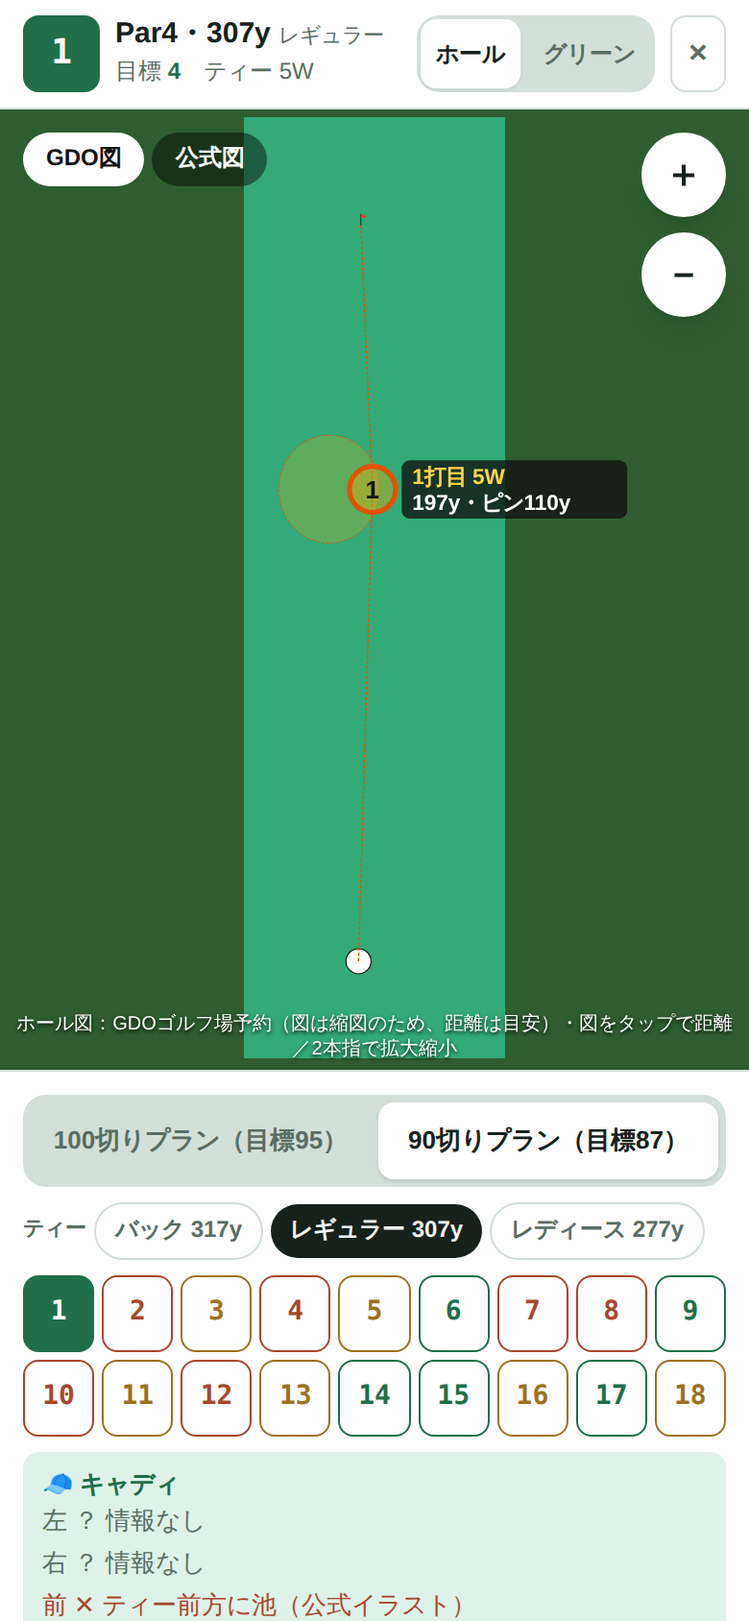
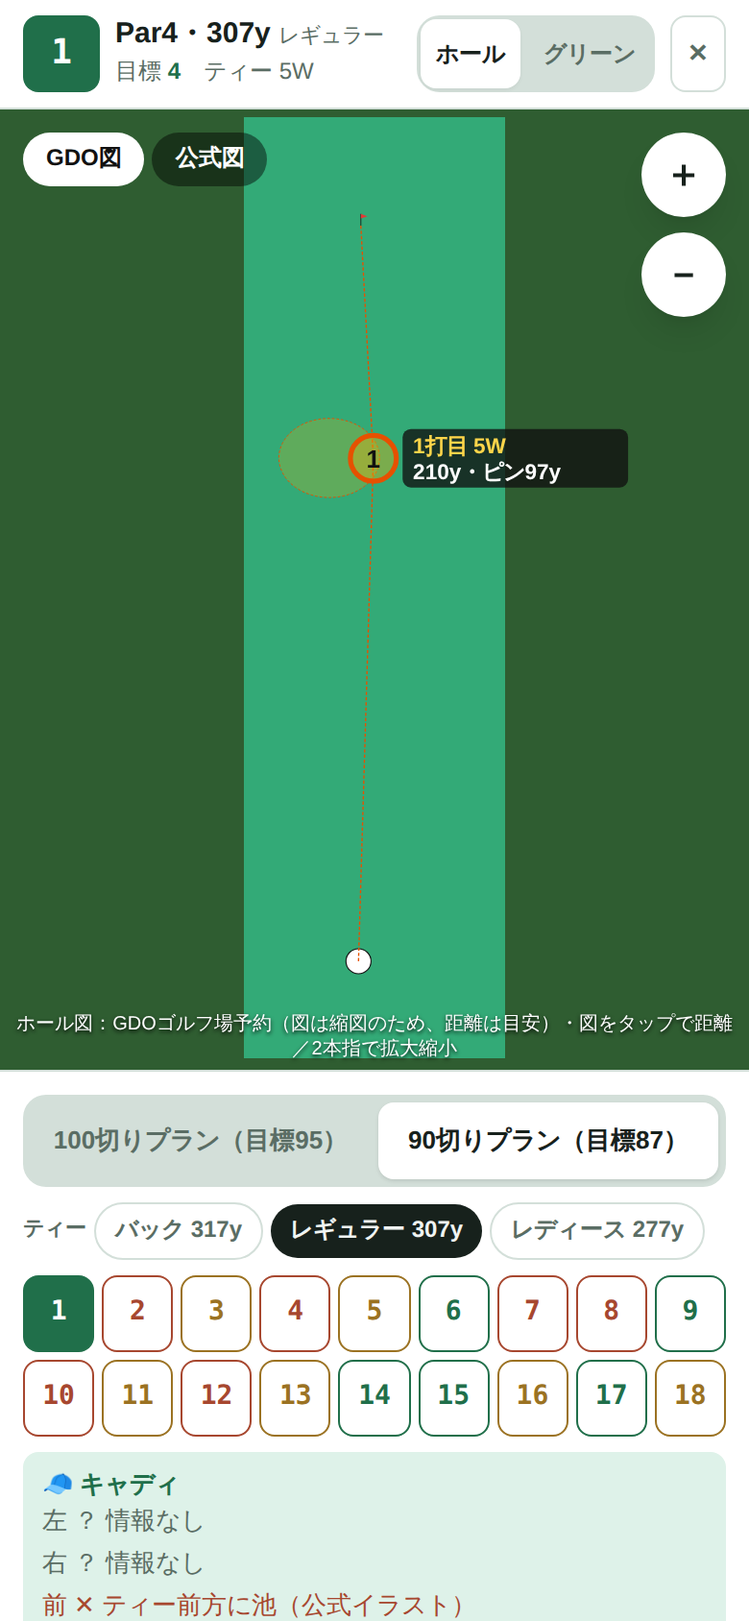
10/3のドライバーを踏まえ、東条湖のドライバー使用を4・7・10・18番に再設計
Claude-Session: https://claude.ai/code/session_01LVXp9yuLfa1MYfbrSFnTCu

Changed region(s): [[0.3692, 0.2464, 0.8615, 0.3389]]

diff --git a/rounds.js b/rounds.js
@@ -9,13 +9,13 @@ const ROUND_DEFS=[
   diff:{stars:4,cr:71.6,par:72,yards:6261,bunkers:76,water:5,green:'姫高麗グリーン（秋は8フィート前後）',terrain:'丘陵（坂あり）',why:['コースレートがParに近い（3つの中で一番難しい）','バンカー76個','姫高麗グリーンは芝目が強く、読みにくい']},
  },
  {date:'2026-10-20',course:'東条湖カントリー倶楽部',time:'OUT 7:08',tee:'レギュラー 6,198y・Par72',members:'3名',plan:'セルフ・4人乗りカート付き（昼食は別料金）　1人 5,100円',
-  plans:{p90:{"name": "90切り", "target": 87, "limit": 89, "tee": "5W", "summary": "全ホールボギーなら90。<b>パーを4つ（1・9・16・17番）</b>取り、ダブルボギーを10番の1つだけにすると87。予備2打で89以内。前提は「ティーショットは5W中心（1Wは4・7・18番）・OB0・3パット0」。", "holes": {"1": [4, "パーを取るホール。5W（トータル210y）で右寄りに構えて真ん中へ→残り約110y。PWでグリーン真ん中、2パットでパー。"], "2": [6, "5W→8Iで池の手前に刻む（公式：2打目は池越え）→残り約130yを8Iで池越え。4オン2パットのボギーでOK。奥は危険（公式）。"], "3": [5, "池越えの左ドッグレッグ（公式）。5Wで池を越えて右寄りの真ん中→残り約135y。7Iで手前から。ボギーでOK、乗ればパーチャンス。"], "4": [5, "ドライバーを使うホール（OBの記載がなく、ティー近くの池以外は広い）。1W（トータル231y）でフェアウェイ中央→残り約200y。7Iで残り約55yに刻み、3打目で乗せてボギー。グリーン手前が狭い（公式）。"], "5": [5, "右はOB（公式）。右に行かない5Wで真ん中→残り約150y。6Iで乗らなくても手前に。ボギー確保、乗ればパー。"], "6": [4, "右に池。5Wでグリーン左手前に運び、寄せて2パットのボギー。右だけは避ける。"], "7": [5, "ドライバーを使うホール。左に曲げてもセーフ（公式）なので思い切り振ってOK。1W→残り約215y→7I→残り約65yの3オンでボギー。"], "8": [6, "2打目から右はOB（公式）。5W→7Iで左側→残り約140yを7Iで。ボギー、乗ればパーチャンス。"], "9": [3, "パーを取るホール。7I（キャリー140y・ブレ±3y）で真ん中。2パットでパー。"], "10": [6, "難易度3位（GDO）。5Wでクロスバンカーの右（公式）→残り約165y。グリーン左は深い谷（公式）なので右手前に刻む。ダブルボギーまでOKなのはここだけ。"], "11": [5, "5Wで左のクロスバンカー方向（公式）→残り約175y。2打目は打ち下ろしなので6Iで手前から。奥は禁物（公式）。ボギー。"], "12": [6, "難易度2位（GDO）。5W→7I（2打目はフェアウェイ左が有利・公式）→残り約140yを7Iで。4オンでもボギー。"], "13": [5, "右はOB（公式）。右に行かない5Wで中央より左（公式）→残り約155y。ボギー、乗ればパー。"], "14": [4, "打ち上げでピンが見えない。5Iで右側へ（公式：右側が安全）。ボギーでOK。"], "15": [6, "左右に落とし穴（公式）。5W→7I→残り約135yを7Iで。3打目は前下がりでグリーンも速いので手前から（公式）。ボギー。"], "16": [4, "パーを取るホール。5Wでフェアウェイ右側（公式の狙い目）→残り約115y。PWでグリーン右寄りへ（左はトラブル・公式）。"], "17": [3, "パーを取るホール。6I（キャリー148y）で真ん中。2段グリーン（公式）なので1パット目は手前から丁寧に。"], "18": [5, "ドライバーで締めるホール。打ち下ろしで正面の楠の木を狙う（公式）。1W→残り約200y→7Iで刻み、2打目は左側から（公式）。グリーン右は要注意（公式）。ボギー。"]}, "rules": [["ティーショットは5Wが基本、1Wは4・7・18番の3回", "1Wを使うのは、OBの記載がなく広い4番・左がセーフの7番（公式）・打ち下ろしの18番。右OBのある5・8・13番と、OB率の高い12・15番（GDO）は5W。"], ["パーは1・9・16・17番で取る", "短いミドル2つ（5W→PW）と、易しいショート2つ（7I・6I）。ここだけはピンを見てよい。"], ["3パットを0に", "90切りの一番の近道。1パット目は「カップの周り1mに止める」距離感で打つ。"], ["100y以内は3打で上がる", "寄せ1打＋2パット。迷ったら転がす。"], ["ダブルボギーは10番だけ", "OBと池さえなければ届く。池が絡む2・3・6番は「越えない」選択も正解。"]], "checks": ["9番を終えて<b>43以内</b>なら予定どおり。", "<b>44〜45</b>なら、INは16・17番のパーだけ狙い、残りは確実にボギー（IN44で89）。", "<b>46以上</b>なら、その場で100切りプランに切り替えて守る。"], "teeBy": {"4": "1W", "7": "1W", "18": "1W"}}},
+  plans:{p90:{"name": "90切り", "target": 87, "limit": 89, "tee": "5W", "summary": "全ホールボギーなら90。<b>パーを4つ（1・9・16・17番）</b>取り、ダブルボギーを10番の1つだけにすると87。予備2打で89以内。前提は「ティーショットは5W中心（1Wは4・7・10・18番）・OB0・3パット0」。", "holes": {"1": [4, "パーを取るホール。5W（トータル210y）で右寄りに構えて真ん中へ→残り約110y。PWでグリーン真ん中、2パットでパー。"], "2": [6, "5W→8Iで池の手前に刻む（公式：2打目は池越え）→残り約130yを8Iで池越え。4オン2パットのボギーでOK。奥は危険（公式）。"], "3": [5, "池越えの左ドッグレッグ（公式）。5Wで池を越えて右寄りの真ん中→残り約135y。7Iで手前から。ボギーでOK、乗ればパーチャンス。"], "4": [5, "ドライバーを使うホール：OBの記載なし（公式）。1W（トータル231y）→残り約190y→7Iで残り約60yに刻み、3打目で乗せてボギー。グリーン手前が狭い（公式）。"], "5": [5, "右はOB（公式）。右に行かない5Wで真ん中→残り約150y。6Iで乗らなくても手前に。ボギー確保、乗ればパー。"], "6": [4, "右に池。5Wでグリーン左手前に運び、寄せて2パットのボギー。右だけは避ける。"], "7": [5, "ドライバーを使うホール：左はセーフ（公式）なのでチーピンが出てもOK。1W→残り約200y→7I→残り約60yの3オンでボギー。"], "8": [6, "2打目から右はOB（公式）。5W→7Iで左側→残り約140yを7Iで。ボギー、乗ればパーチャンス。"], "9": [3, "パーを取るホール。7I（キャリー140y・ブレ±3y）で真ん中。2パットでパー。"], "10": [6, "ドライバーを使うホール：OB率10%で一番低い（GDO）。1Wでクロスバンカーの右（公式）→残り約130yを8Iで右寄りへ（グリーン左は深い谷・公式）。ダブルボギーまでOKなのはここだけ。"], "11": [5, "5Wで左のクロスバンカー方向（公式）→残り約175y。2打目は打ち下ろしなので6Iで手前から。奥は禁物（公式）。ボギー。"], "12": [6, "難易度2位（GDO）。5W→7I（2打目はフェアウェイ左が有利・公式）→残り約140yを7Iで。4オンでもボギー。"], "13": [5, "右はOB（公式）。右に行かない5Wで中央より左（公式）→残り約155y。ボギー、乗ればパー。"], "14": [4, "打ち上げでピンが見えない。5Iで右側へ（公式：右側が安全）。ボギーでOK。"], "15": [6, "左右に落とし穴（公式）。5W→7I→残り約135yを7Iで。3打目は前下がりでグリーンも速いので手前から（公式）。ボギー。"], "16": [4, "パーを取るホール。5Wでフェアウェイ右側（公式の狙い目）→残り約115y。PWでグリーン右寄りへ（左はトラブル・公式）。"], "17": [3, "パーを取るホール。6I（キャリー148y）で真ん中。2段グリーン（公式）なので1パット目は手前から丁寧に。"], "18": [5, "ドライバーで締めるホール：打ち下ろし・OB率13%（GDO）。正面の楠の木（公式）→残り約185y→7Iで刻み、左側から3オン。グリーン右は要注意（公式）。"]}, "rules": [["ドライバーは4・7・10・18番の4回", "10/3のトラックマンで1Wはキャリー194y・トータル231y（当たった球）。5Wより約20y前に行く。選んだのは、OBの記載がない4番、左がセーフの7番（公式）、OB率が低い10番（10%）と18番（13%・GDO）。右OBの5・8・13番と、OB率が高い3・12・15番は5W。ドライバーで2回ミスしたら残りは5W。"], ["パーは1・9・16・17番で取る", "短いミドル2つ（5W→PW）と、易しいショート2つ（7I・6I）。ここだけはピンを見てよい。"], ["3パットを0に", "90切りの一番の近道。1パット目は「カップの周り1mに止める」距離感で打つ。"], ["100y以内は3打で上がる", "寄せ1打＋2パット。迷ったら転がす。"], ["ダブルボギーは10番だけ", "OBと池さえなければ届く。池が絡む2・3・6番は「越えない」選択も正解。"]], "checks": ["9番を終えて<b>43以内</b>なら予定どおり。", "<b>44〜45</b>なら、INは16・17番のパーだけ狙い、残りは確実にボギー（IN44で89）。", "<b>46以上</b>なら、その場で100切りプランに切り替えて守る。"], "teeBy": {"4": "1W", "7": "1W", "10": "1W", "18": "1W"}}},
   target:95,limit:99,link:'https://claude.ai/artifact/Cq7XPSVNLmbx1azX5LmUY4',mapKey:'tojo',
   diff:{stars:3,cr:69.2,par:72,yards:6198,bunkers:65,water:9,green:'ベントグリーン（秋は8.5フィート前後）',terrain:'丘陵（ブラインドは2・14・16番）',why:['コースレートはやさしめ（GORA 69.2・GDO 69.1）','池が絡むホールが9つ（天然の池を生かしたコース）','フェアウェイが狭いという口コミが多い']},
   summary:'全ホールをボギーで回ると90。難しい4ホールはダブルボギーでよしとして、目標は95。予備が4打あるので、大叩きが1〜2回あっても100を切れる計算です。',
   info:['コースレート 69.2（楽天GORA・レギュラー）。GDOでは69.1。ベントのワングリーン（秋は速さ8.5フィート前後）','バンカー65個・池が絡むホール9つ（GDO）。ブラインドは2番（2打目で木がじゃま）・14番（ピンが見えない）・16番（公式）','カートは5人乗り・自走式で、フェアウェイには入れない（GDO）'],
   rules:[
-   ['OBを0にする','トラックマンでは5Wは右に打ち出して左に曲がる球（10/3も打ち出しは平均7°右）。5Wはフェアウェイの右寄りに向けて構え、左に戻ってくる球で真ん中へ。1Wは左右どちらにも±24yぶれるので、狭いホールでは使わない。'],
+   ['OBを0にする','ドライバーは4・7・10・18番の4回（OBの記載なし・左セーフ・OB率が低いホール）。それ以外は5W。5Wは右に打ち出して左に曲がる球（10/3も打ち出し平均7°右）なので、フェアウェイ右寄りに構える。ドライバーで2回ミスしたら、残りは5Wに切り替える。'],
    ['短いミドルは5番ウッドか4H','フェアウェイが狭いという口コミが多い。距離より、次を打ちやすい場所が大事。'],
    ['グリーンは真ん中を狙う','ピンは見ない。バンカーが深いので、ピンがバンカーの近くなら反対側へ。'],
    ['林やラフからは1打で出す','フェアウェイに横へ出すのが正解。無理に狙うのが大叩きの原因。'],
@@ -24,15 +24,15 @@ const ROUND_DEFS=[
   order:['out','in'],
   holes:[
    [1,4,307,13,5,'5W / 4H','短いミドル。ドライバーは不要。フェアウェイに置く。グリーンはやや高いので、2打目は1番手大きめで真ん中へ。','easy'],
-   [2,5,485,1,7,'ドライバー','一番難しいホール（平均7点台）。1打目はやや打ち上げで右寄りが狙い目。2打目は池越えなので、無理せず池の手前に刻み、3打目で越える。グリーン奥は危険。','hard'],
+   [2,5,485,1,7,'5W','一番難しいホール（平均7点台）。ドライバーは持たない：1打目はやや打ち上げで右寄りが狙い目（公式）、2打目は池越え（公式）なので距離はいらない。5W→池の手前に刻み→3打目で越える。グリーン奥は危険。','hard'],
    [3,4,330,11,5,'5W / 4H','ティー前方に池（65〜125y）。4Hで池を越えて右寄りの真ん中へ。左ドッグレッグだが角は狙わない。グリーン奥は危険なので手前から。','mid'],
-   [4,4,418,3,6,'ドライバー','長いミドル。2打でのせようとしない。3打目で100y以内に残せればダブルボギーまでで上がれる。','hard'],
+   [4,4,418,3,6,'ドライバー','ドライバーを使うホール：公式にOBの記載がなく、長いミドル。1W（トータル231y）→残り約190y。2打で乗せようとせず、7Iで100y以内に運んで3打目で乗せる。グリーン手前が狭い（公式）。','hard'],
    [5,4,345,9,5,'5W / 4H','真っすぐのミドル。右はOB。左に行きすぎると2打目でグリーンを狙えないので、4Hで真ん中に置く。','mid'],
    [6,3,189,15,4,'5W','右側に池があるショート。4Hのキャリー153yでは届かないので5W（キャリー188y・左に戻る球）。グリーンはやや右に傾いているので、左側から攻める。右に外すのが一番のミス。','easy'],
-   [7,4,430,5,6,'ドライバー','OUTで一番長いミドル。3打で乗せる計画で、2打目は得意な距離を残す。','hard'],
+   [7,4,430,5,6,'ドライバー','ドライバーを使うホール：左に曲げてもセーフ（公式）なので、チーピンが出ても大丈夫。1W→残り約200y→7I→残り約60yの3オン。','hard'],
    [8,5,487,7,6,'5W','OB率42%（GDO・同じレベル）。2打目から右はOBが出やすい（公式）ので、1打目は5Wで右側、2打目は7Iで左側へ（公式の狙い）。','hard'],
    [9,3,137,17,4,'7I','池越えの短いショート。9Iのキャリーは126yで届かないこともあるので、ブレの小さい7I（キャリー140y・ブレ±3y）で真ん中へ。','easy'],
-   [10,4,360,4,6,'ドライバー','GDOの同じレベル（96〜105）の平均5.90・難易度3位。1打目はクロスバンカーの右側（公式）。グリーン左は深い谷なので、2打目は右寄りへ。6（ダブルボギー）までならOK。','hard'],
+   [10,4,360,4,6,'ドライバー','ドライバーを使うホール：GDOのOB率10%で18ホール中いちばん低い。1Wでクロスバンカーの右（公式）へ→残り約130yを8Iで。グリーン左は深い谷（公式）なので右寄りに。ボギーなら上出来。','hard'],
    [11,4,370,12,5,'5W / 4H','1打目は左のクロスバンカー方向へ4H。2打目は打ち下ろしで、グリーン奥は禁物。右手前に池。','mid'],
    [12,5,487,2,7,'5W','難易度2位・OB率46%（GDO・同じレベル）。1Wは持たず5Wで中央へ（公式は「第1打中央」）。2打目はフェアウェイ左側（公式）。5W→7I→短いクラブで4打目にグリーン。','hard'],
    [13,4,350,10,5,'5W / 4H','ティー前方の左に大きな池。フェアウェイは右に傾いていて、右はOB。中央より左に置く。','mid'],
@@ -40,7 +40,7 @@ const ROUND_DEFS=[
    [15,5,480,8,6,'5W','OB率45%（GDO・同じレベル）。1打目は5Wでフェアウェイ中央（公式）。左右に落とし穴あり（公式）。3打目は前下がりでグリーンも速いので、手前から（公式）。','easy'],
    [16,4,311,16,5,'5W / 4H','やや打ち上げのブラインド。ドライバーは我慢してフェアウェイ右側に置く。2打目はグリーン左に外さない。','mid'],
    [17,3,147,18,4,'6I','一番易しいホール。6I（キャリー148y）で真ん中に乗せる。2段グリーンなので1パット目を丁寧に。','easy'],
-   [18,4,414,6,5,'ドライバー','打ち下ろし。正面の楠の木を狙う（公式）。2打目は左側から。グリーン右は要注意。同じレベルの平均5.55なので、ボギーを取りにいくホール。','mid'],
+   [18,4,414,6,5,'ドライバー','ドライバーで締めるホール：打ち下ろしでOB率13%（GDO）。正面の楠の木を狙う（公式）。1W→残り約185y→7Iで刻み、2打目は左側から（公式）。グリーン右は要注意（公式）。','mid'],
   ],
   checks:['9番を終えて<b>50以内</b>なら予定どおり。INも同じ回り方でOK。','<b>51〜54</b>なら、INの短いミドル（11・13・16番）は全部5番ウッドか4Hにして、ボギーを確実に取る。','<b>55以上</b>でも、INで44なら99。ロング（12・15番）で無理をせず、3打目までにグリーン近くに運ぶ。'],
   prep:['スタート前：①可動域の3種＋骨盤分離 片足10回＋ヒップツイスト10回。','練習場（10/19まで）：5Wのティーショットを毎回20球。右寄りに構えて、左に戻る球で真ん中に落とす（今の5Wは平均13y左）。','シャンク対策：ハーフスイングで、かかと寄りに体重を乗せたまま10球。本番で出たら次の1打はハーフスイング。','アプローチ：50y・30y・10yを、クラブ1本（PWか52°）で打ち分ける。'],

diff --git a/holemaps.js b/holemaps.js
@@ -8,22 +8,22 @@
 // ─────────────────────────────────────────────
 const HOLE_MAPS={
  tojo:{
-  1:{c:[[0,0],[0,200],[-5,307]],hz:[{t:'w',x:-40,y:100,rx:14,ry:22},{t:'b',x:18,y:262},{t:'b',x:26,y:250},{t:'b',x:-15,y:270}],t:[[5,190,'4H']],n:'力まずフェアウェイキープ。グリーンはやや高く、2打目のアイアン選びがポイント（公式）。ティー前方の左に池（ショットナビの図）。'},
-  2:{c:[[0,0],[8,220],[0,330],[0,485]],hz:[{t:'w',x:-42,y:290,rx:10,ry:40},{t:'w',x:-5,y:340,rx:42,ry:16},{t:'w',x:-38,y:455,rx:10,ry:18},{t:'b',x:-28,y:270},{t:'b',x:-25,y:290}],t:[[8,220,'1W'],[0,305,'8I 刻む'],[0,455,'4H 池越え']],n:'1打目はやや打ち上げで右寄りが狙い目。2打目は池越えで、距離を残すと木がブラインドになって難しい。3打目のグリーンオーバーは危険（公式）。'},
-  3:{c:[[0,0],[5,150],[-5,250],[-25,330]],hz:[{t:'w',x:12,y:95,rx:30,ry:30},{t:'b',x:-32,y:230},{t:'b',x:28,y:255},{t:'b',x:22,y:270}],t:[[10,185,'4H']],n:'池越えの左ドッグレッグ。距離を欲張らず真ん中へ。グリーン奥は危険なので手前から。'},
+  1:{c:[[0,0],[0,200],[-5,307]],hz:[{t:'w',x:-40,y:100,rx:14,ry:22},{t:'b',x:18,y:262},{t:'b',x:26,y:250},{t:'b',x:-15,y:270}],t:[[5,190,'5W']],n:'力まずフェアウェイキープ。グリーンはやや高く、2打目のアイアン選びがポイント（公式）。ティー前方の左に池（ショットナビの図）。'},
+  2:{c:[[0,0],[8,220],[0,330],[0,485]],hz:[{t:'w',x:-42,y:290,rx:10,ry:40},{t:'w',x:-5,y:340,rx:42,ry:16},{t:'w',x:-38,y:455,rx:10,ry:18},{t:'b',x:-28,y:270},{t:'b',x:-25,y:290}],t:[[8,220,'5W'],[0,305,'8I 刻む'],[0,455,'4H 池越え']],n:'1打目はやや打ち上げで右寄りが狙い目。2打目は池越えで、距離を残すと木がブラインドになって難しい。3打目のグリーンオーバーは危険（公式）。'},
+  3:{c:[[0,0],[5,150],[-5,250],[-25,330]],hz:[{t:'w',x:12,y:95,rx:30,ry:30},{t:'b',x:-32,y:230},{t:'b',x:28,y:255},{t:'b',x:22,y:270}],t:[[10,185,'5W']],n:'池越えの左ドッグレッグ。距離を欲張らず真ん中へ。グリーン奥は危険なので手前から。'},
   4:{c:[[0,0],[0,300],[0,418]],hz:[{t:'w',x:-22,y:25,rx:12,ry:12},{t:'b',x:-32,y:310},{t:'b',x:-25,y:325}],t:[[0,220,'1W'],[0,330,'7I']],n:'1打目はフェアウェイ中央。グリーン手前が狭いので、2打目は無理せず曲げないこと。'},
-  5:{c:[[0,0],[0,345]],hz:[{t:'ob',side:'R',from:0,to:345},{t:'b',x:22,y:140}],t:[[0,190,'4H']],n:'真ん中狙い。欲張って左へ落とすと2打目でグリーンを狙えない。右はOB。'},
+  5:{c:[[0,0],[0,345]],hz:[{t:'ob',side:'R',from:0,to:345},{t:'b',x:22,y:140}],t:[[0,190,'5W']],n:'真ん中狙い。欲張って左へ落とすと2打目でグリーンを狙えない。右はOB。'},
   6:{c:[[0,0],[0,189]],hz:[{t:'w',x:28,y:110,rx:22,ry:65},{t:'b',x:16,y:170}],t:[],n:'グリーンは大きく、やや右に傾斜。風とピン位置を見て、左側から攻める（公式）。右の池はショットナビの図より。'},
   7:{c:[[0,0],[0,430]],hz:[{t:'b',x:-18,y:410},{t:'b',x:18,y:415}],t:[[0,220,'1W'],[0,340,'7I']],n:'真ん中狙い。左へ曲げると隣のホールでセーフだが、2打目でグリーンを狙えない。'},
   8:{c:[[0,0],[10,210],[-5,340],[0,487]],hz:[{t:'ob',side:'R',from:220,to:487},{t:'w',x:32,y:440,rx:10,ry:35}],t:[[10,205,'5W'],[-8,355,'7I']],n:'1打目は右側、2打目は左側が狙い目。2打目から右はOBが出やすい（公式）。グリーン右の池はショットナビの図より。'},
   9:{c:[[0,0],[0,137]],hz:[{t:'w',x:10,y:65,rx:38,ry:50}],t:[],n:'池越えのショート。グリーン中央が安全。少し大きめのクラブで。'},
   10:{c:[[0,0],[3,200],[-8,360]],hz:[{t:'b',x:-20,y:185},{t:'w',x:36,y:95,rx:8,ry:12},{t:'v',side:'L',from:300,to:370},{t:'b',x:12,y:330}],t:[[6,205,'1W']],n:'1打目はクロスバンカーの右側が狙い目。グリーン左は深い谷。'},
-  11:{c:[[0,0],[-5,200],[0,370]],hz:[{t:'b',x:-25,y:250},{t:'w',x:30,y:335,rx:10,ry:18},{t:'b',x:-15,y:355},{t:'b',x:18,y:350}],t:[[-8,190,'4H'],[0,290,'9I']],n:'1打目は左のクロスバンカー方向へ。2打目は打ち下ろし。グリーンオーバーは禁物。'},
+  11:{c:[[0,0],[-5,200],[0,370]],hz:[{t:'b',x:-25,y:250},{t:'w',x:30,y:335,rx:10,ry:18},{t:'b',x:-15,y:355},{t:'b',x:18,y:350}],t:[[-8,190,'5W'],[0,290,'9I']],n:'1打目は左のクロスバンカー方向へ。2打目は打ち下ろし。グリーンオーバーは禁物。'},
   12:{c:[[0,0],[15,150],[22,260],[0,380],[-15,487]],hz:[{t:'w',x:32,y:50,rx:14,ry:16},{t:'w',x:-15,y:170,rx:16,ry:10},{t:'b',x:-15,y:455},{t:'b',x:12,y:470}],t:[[15,195,'5W'],[8,345,'7I']],n:'S字のロング。1打目は中央。2打目はフェアウェイ左側が3打目に有利。'},
-  13:{c:[[0,0],[0,350]],hz:[{t:'w',x:-18,y:85,rx:28,ry:30},{t:'ob',side:'R',from:120,to:350}],t:[[-8,190,'4H']],n:'1打目は中央より左。フェアウェイは右に傾いていて、右に曲げるとOB（公式）。ティー前方左の池はショットナビの図より。'},
+  13:{c:[[0,0],[0,350]],hz:[{t:'w',x:-18,y:85,rx:28,ry:30},{t:'ob',side:'R',from:120,to:350}],t:[[-8,190,'5W']],n:'1打目は中央より左。フェアウェイは右に傾いていて、右に曲げるとOB（公式）。ティー前方左の池はショットナビの図より。'},
   14:{c:[[0,0],[0,151]],hz:[{t:'b',x:-14,y:132},{t:'b',x:10,y:140}],t:[],n:'打ち上げでピンは見えない。右側が安全。'},
   15:{c:[[0,0],[10,250],[0,380],[-15,480]],hz:[{t:'w',x:-32,y:95,rx:10,ry:16},{t:'w',x:28,y:100,rx:12,ry:16},{t:'b',x:-18,y:460},{t:'b',x:8,y:470}],t:[[8,205,'5W'],[0,360,'7I']],n:'1打目はフェアウェイ中央。左右に落とし穴がある。3打目は前下がりでグリーンも速いので手前から（公式）。100y付近の池はショットナビの図より。'},
-  16:{c:[[0,0],[5,311]],hz:[{t:'b',x:-14,y:290},{t:'b',x:15,y:295}],t:[[8,185,'4H']],n:'やや打ち上げのブラインドホール。フェアウェイ右側が狙い目。2打目をグリーン左に落とすとトラブル。'},
+  16:{c:[[0,0],[5,311]],hz:[{t:'b',x:-14,y:290},{t:'b',x:15,y:295}],t:[[8,185,'5W']],n:'やや打ち上げのブラインドホール。フェアウェイ右側が狙い目。2打目をグリーン左に落とすとトラブル。'},
   17:{c:[[0,0],[0,147]],hz:[{t:'b',x:-15,y:130},{t:'b',x:15,y:132}],t:[],n:'風とピン位置で距離が変わる。2段グリーンで傾斜があり、1パット目が大事。'},
   18:{c:[[0,0],[-5,250],[0,414]],hz:[{t:'t',x:0,y:235},{t:'b',x:15,y:400},{t:'b',x:-12,y:395}],t:[[-5,215,'1W'],[-8,330,'8I']],n:'打ち下ろし。正面の楠の木が狙い目。2打目は左側から。グリーン右は要注意。'},
  },

diff --git a/sw.js b/sw.js
@@ -1,5 +1,5 @@
 // ネット優先（新しい版をすぐ反映）＋オフライン時はキャッシュ
-const CACHE='yohei-training-v32';
+const CACHE='yohei-training-v33';
 const CORE=['./','./index.html','./app.js','./plan.js','./exercises.js','./theme.js','./actual.js','./voice.js','./study.js','./auth.js','./rounds.js','./holemaps.js','./clubs.js','./app.css','./manifest.json','./icon-192.png'];
 self.addEventListener('install',e=>{e.waitUntil(caches.open(CACHE).then(c=>c.addAll(CORE)).catch(()=>{}));self.skipWaiting();});
 self.addEventListener('activate',e=>{e.waitUntil(caches.keys().then(ks=>Promise.all(ks.filter(k=>k!==CACHE).map(k=>caches.delete(k)))));self.clients.claim();});
